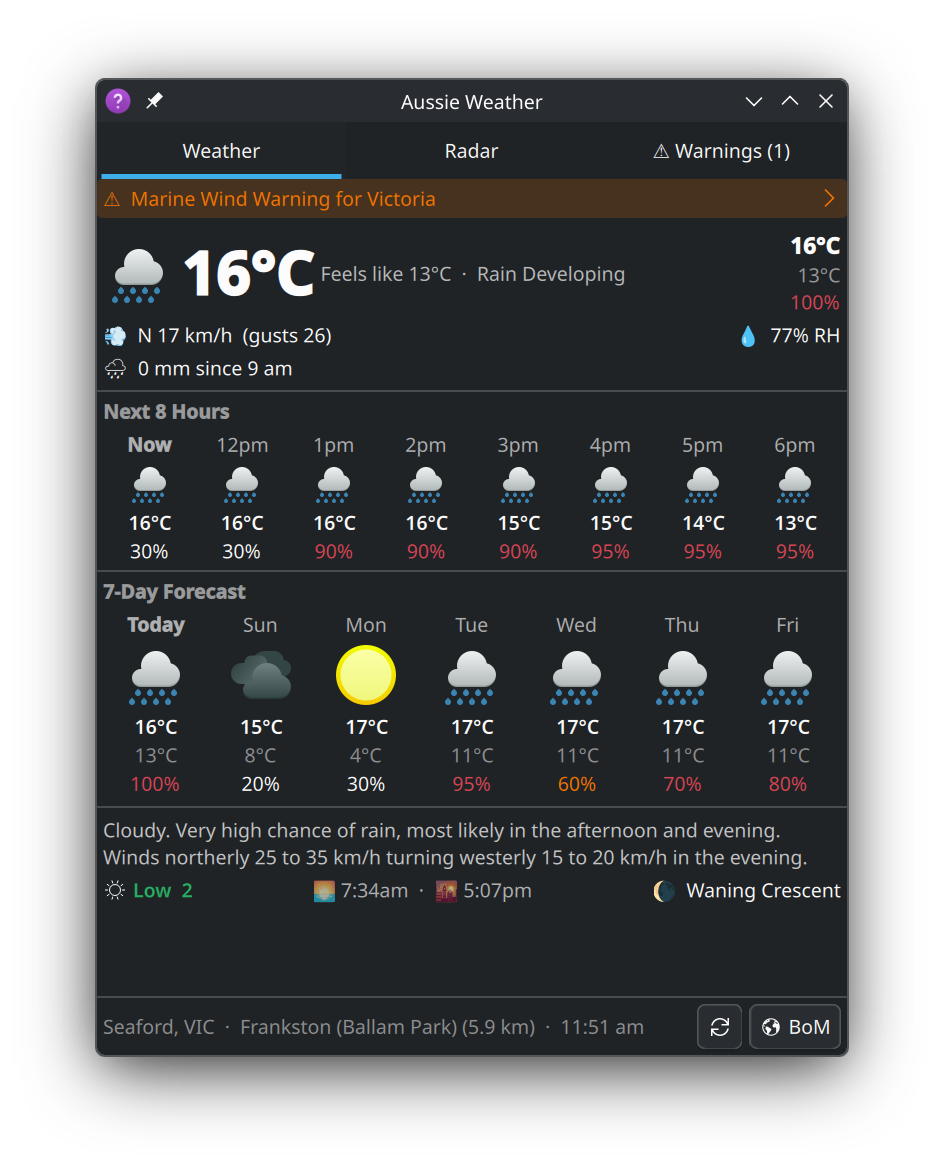
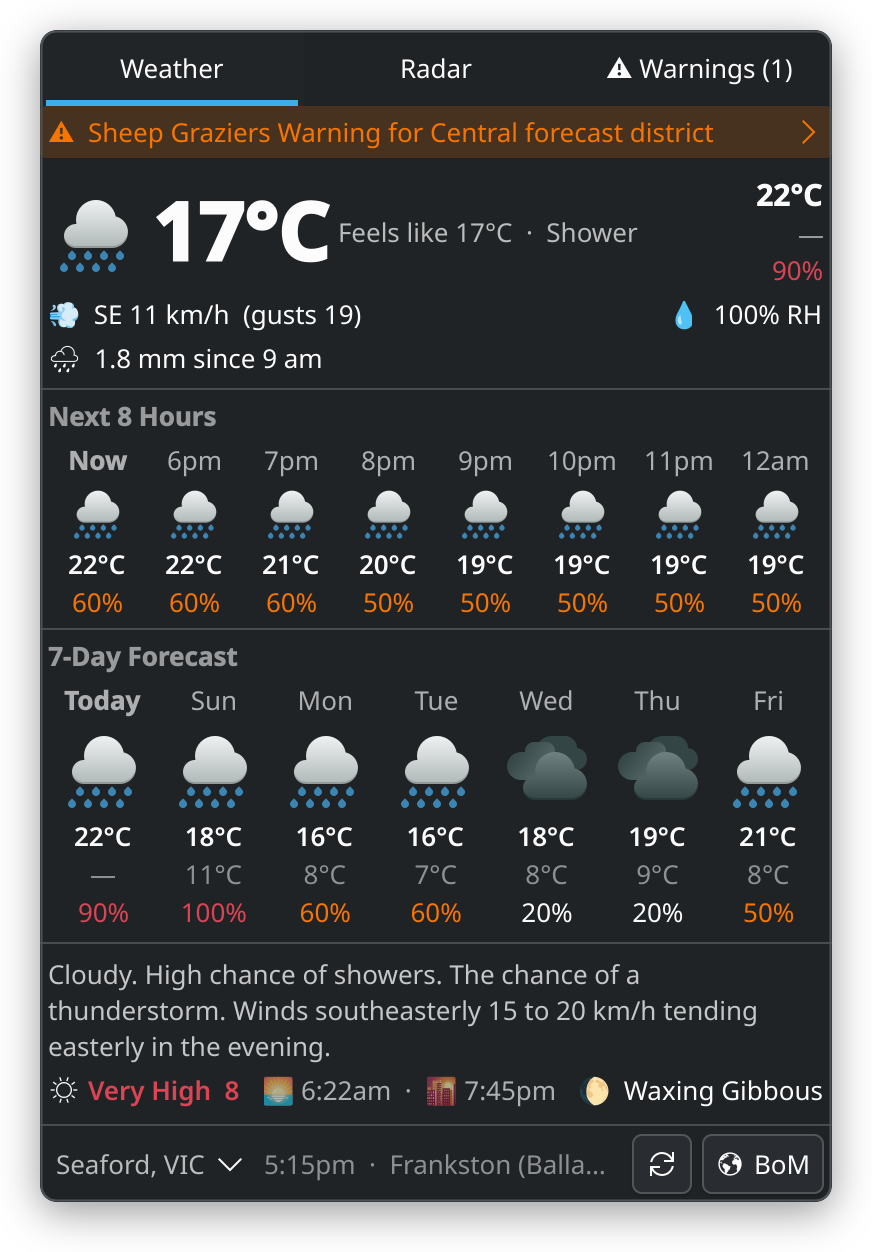
docs: new screenshots, more links, and the README brought up to 1.8
- The six screenshots are retaken from live BoM data for Seaford VIC
  with scripts/docs-screenshots.sh: 1.8's popup, place switcher and
  all. The panel is shown beside them, light and dark.
- Links: the KDE Store page (content 2362509, Aussie Weather by
  hamsolodev, per the store's API), releases, the website, the
  changelog, issues, and the licence file. Every link in the README,
  the website page and RELEASING was checked: 34, all resolving.
- Features: the panel's warning badge and staleness, warning maps,
  cancelled warnings left out, the radar fetching only while shown, and
  places.
- New sections:
  - "What it connects to": BoM's API, and its FTP listing and web
    server only while the Radar tab is on screen. These are the only
    hosts in contents/.
  - Logging out after an upgrade.
  - A troubleshooting entry for "Location not found".
- The website page gets the store link, the panel and the issue link.
  RELEASING says when to retake the screenshots.

diff --git a/README.md b/README.md
@@ -4,7 +4,14 @@
 
 A KDE Plasma 6 panel widget for Australian weather, sourced from the Bureau
 of Meteorology's public API: current conditions, hourly and 7-day forecasts,
-UV index, severe weather warnings, and an animated rain radar loop.
+UV index, severe weather warnings with their maps, and an animated rain
+radar loop, for as many places as you like to switch between.
+
+**[KDE Store](https://store.kde.org/p/2362509)** ·
+[Releases](https://github.com/hamsolodev/plasma-aussieweather/releases) ·
+[Website](https://hamsolodev.github.io/plasma-aussieweather/) ·
+[Changelog](CHANGELOG.md) ·
+[Report a problem](https://github.com/hamsolodev/plasma-aussieweather/issues)
 
 > **Unofficial client.** This widget is not affiliated with or endorsed by
 > the Australian Bureau of Meteorology. Weather data © Australian Bureau of
@@ -19,10 +26,19 @@ UV index, severe weather warnings, and an animated rain radar loop.
 | ![Weather tab](docs/screenshots/light-weather.png) | ![Radar tab](docs/screenshots/light-radar.png) | ![Warnings tab](docs/screenshots/light-warnings.png) |
 | ![Weather tab, dark](docs/screenshots/dark-weather.png) | ![Radar tab, dark](docs/screenshots/dark-radar.png) | ![Warnings tab, dark](docs/screenshots/dark-warnings.png) |
 
+In the panel, with a badge counting the warnings in force:
+<img src="docs/screenshots/light-panel.png" alt="Panel, light: a rain icon with a warning badge, and 17°C" width="72">
+<img src="docs/screenshots/dark-panel.png" alt="Panel, dark: the same on a dark panel" width="72">
+
+Live BoM data for Seaford VIC and the Melbourne radar, taken with
+`scripts/docs-screenshots.sh`.
+
 ## Features
 
 - **Panel:** condition icon (day/night switches at actual sunset/sunrise,
-  to the minute) + current temperature
+  to the minute) and the current temperature, with a badge counting the
+  warnings in force; the temperature dims once the data is out of date,
+  and the tooltip then says when it last updated and what went wrong
 - **Weather tab:** current conditions with feels-like, wind/gusts, humidity
   and rain since 9 am; next 8 hours
   (hover an hour for feels-like, wind, humidity, UV and rain detail); 7-day
@@ -31,13 +47,15 @@ UV index, severe weather warnings, and an animated rain radar loop.
   and moon phase (a moon replaces the UV reading at night)
 - **Radar tab:** animated rain radar composited from BoM's transparency
   layers, with a frame counter and quick station/range switching — the
-  station configured in settings stays the sticky default
+  place's own station stays the sticky default. Nothing radar-related is
+  fetched unless the tab is on screen
 - **Places:** save several places (home, school, work…) and switch between
   them by clicking the place's name at the bottom of the popup; each keeps
   its own radar station and range
-- **Warnings tab:** appears only while warnings are current for your
-  location; full warning text in a scrollable list, plus a banner on the
-  Weather tab
+- **Warnings tab:** appears only while warnings are in force for the place
+  (cancelled and expired ones are left out); the full warning text with its
+  links, and its maps, in a scrollable list, plus a banner on the Weather
+  tab
 - **Radar stations:** all 69 active BoM radar sites, enumerated with their
   available ranges (512/256/128/64 km), selectable by name — no product IDs
   to look up
@@ -45,9 +63,12 @@ UV index, severe weather warnings, and an animated rain radar loop.
 ## Install
 
 **From the KDE Store:** right-click your panel → *Add Widgets* → *Get New
-Widgets* → search "Aussie Weather".
+Widgets* → search "Aussie Weather", or see its
+[store page](https://store.kde.org/p/2362509).
 
-**From a release package:**
+**From a release package:** download the `.plasmoid` from the
+[latest release](https://github.com/hamsolodev/plasma-aussieweather/releases/latest),
+check it against the release's `SHA256SUMS`, then:
 
 ```sh
 kpackagetool6 --type Plasma/Applet --install net.tropism.plasma.aussieweather-<version>.plasmoid
@@ -66,6 +87,9 @@ kpackagetool6 --type Plasma/Applet --install "$(scripts/package.sh)"
 `scripts/package.sh` needs `zip`, and `msgfmt` (gettext) once translations
 exist; it prints the path of the `.plasmoid` it builds.
 
+After installing or upgrading, log out and back in to load the new
+version into a panel that is already running.
+
 ### Runtime requirement
 
 `python3` must be on `PATH`. The widget fetches BoM API data and the radar
@@ -80,6 +104,17 @@ location no longer shown loses its maps after a day. The cache directory
 must not be writable by other users (a group of your own is fine); the
 widget keeps its own directories private (mode 0700). If they cannot be
 made so, the maps are not shown and the widget says why.
+
+### What it connects to
+
+- `api.weather.bom.gov.au` (HTTPS): the place's observations, forecasts
+  and warnings, every poll.
+- `ftp.bom.gov.au` (FTP, a file listing only) and `www.bom.gov.au`
+  (HTTPS): the radar's frames and map layers, only while the Radar tab is
+  on screen.
+
+Nothing else: no analytics, and no account. The buttons that open BoM's
+web pages open them in your browser.
 
 ## Configuration
 
@@ -107,6 +142,9 @@ made so, the maps are not shown and the widget says why.
 - **"No recent radar images"** — the station has published nothing in the
   last hour, usually because it is offline for maintenance. Switch to a
   neighbouring station from the Radar tab's quick picker.
+- **"Location not found"** — BoM's search found no place by that name.
+  Check the spelling, or try a nearby suburb or town; BoM spells some
+  names out (`Mt` and `Mount` both work).
 - **Location resolves to the wrong place** — include the state suffix
   (`Springfield QLD` vs `Springfield SA`, in any case); only places in that
   state then match, and if none does the widget says the location was not
@@ -118,6 +156,7 @@ made so, the maps are not shown and the widget says why.
 ./scripts/test.sh            # Python tests of contents/code, QML tests of the helpers and model
 ./scripts/check-qml.py       # compile every QML file against the installed Plasma
 ./scripts/render.py OUTDIR   # screenshot each tab offscreen; fails on any QML warning
+./scripts/docs-screenshots.sh  # retake this README's screenshots from live BoM data
 ./scripts/package.sh         # build net.tropism.plasma.aussieweather-<version>.plasmoid
 ./scripts/make-icons.py      # remake the icon's copies after editing branding/
 ./translate/merge.sh         # regenerate translate/template.pot after string changes
@@ -138,4 +177,5 @@ root.
 
 ## License
 
-GPL-2.0-or-later. This project is [REUSE](https://reuse.software/) compliant.
+[GPL-2.0-or-later](LICENSES/GPL-2.0-or-later.txt). This project is
+[REUSE](https://reuse.software/) compliant.

diff --git a/docs/index.md b/docs/index.md
@@ -3,8 +3,14 @@
 <img src="icon.png" alt="" width="96" align="right">
 
 Australian weather in your KDE panel: current conditions, hourly and 7-day
-forecasts, UV, severe weather warnings, and an animated rain radar — data
-from the Bureau of Meteorology's public API.
+forecasts, UV, severe weather warnings with their maps, and an animated
+rain radar, for as many places as you like to switch between — data from
+the Bureau of Meteorology's public API.
+
+**[Get it from the KDE Store](https://store.kde.org/p/2362509)**, or from
+Plasma itself: right-click your panel → *Add Widgets* → *Get New Widgets* →
+search "Aussie Weather". Release packages are on
+[GitHub](https://github.com/hamsolodev/plasma-aussieweather/releases/latest).
 
 *Unofficial client; not affiliated with or endorsed by the Bureau of
 Meteorology. Weather data © Australian Bureau of Meteorology.*
@@ -14,7 +20,12 @@ Meteorology. Weather data © Australian Bureau of Meteorology.*
 | ![Weather tab](screenshots/light-weather.png) | ![Radar tab](screenshots/light-radar.png) | ![Warnings tab](screenshots/light-warnings.png) |
 | ![Weather tab, dark](screenshots/dark-weather.png) | ![Radar tab, dark](screenshots/dark-radar.png) | ![Warnings tab, dark](screenshots/dark-warnings.png) |
 
+In the panel:
+<img src="screenshots/light-panel.png" alt="Panel, light: a rain icon with a warning badge, and 17°C" width="72">
+<img src="screenshots/dark-panel.png" alt="Panel, dark: the same on a dark panel" width="72">
+
 See the [README](https://github.com/hamsolodev/plasma-aussieweather#readme)
 for features, installation, and configuration, and the
 [CHANGELOG](https://github.com/hamsolodev/plasma-aussieweather/blob/main/CHANGELOG.md)
-for release history.
+for release history. Found a problem?
+[Report it](https://github.com/hamsolodev/plasma-aussieweather/issues).

diff --git a/docs/RELEASING.md b/docs/RELEASING.md
@@ -8,6 +8,9 @@
    workflow fails without one.
 3. If strings changed: `./translate/merge.sh`, and commit the updated
    `template.pot`. CI fails while it is out of date.
+4. If the popup looks different: retake the README's screenshots with
+   `scripts/docs-screenshots.sh` (live BoM data; needs the network,
+   PySide6 and ImageMagick), and commit `docs/screenshots/`.
 
 ## Release
 
